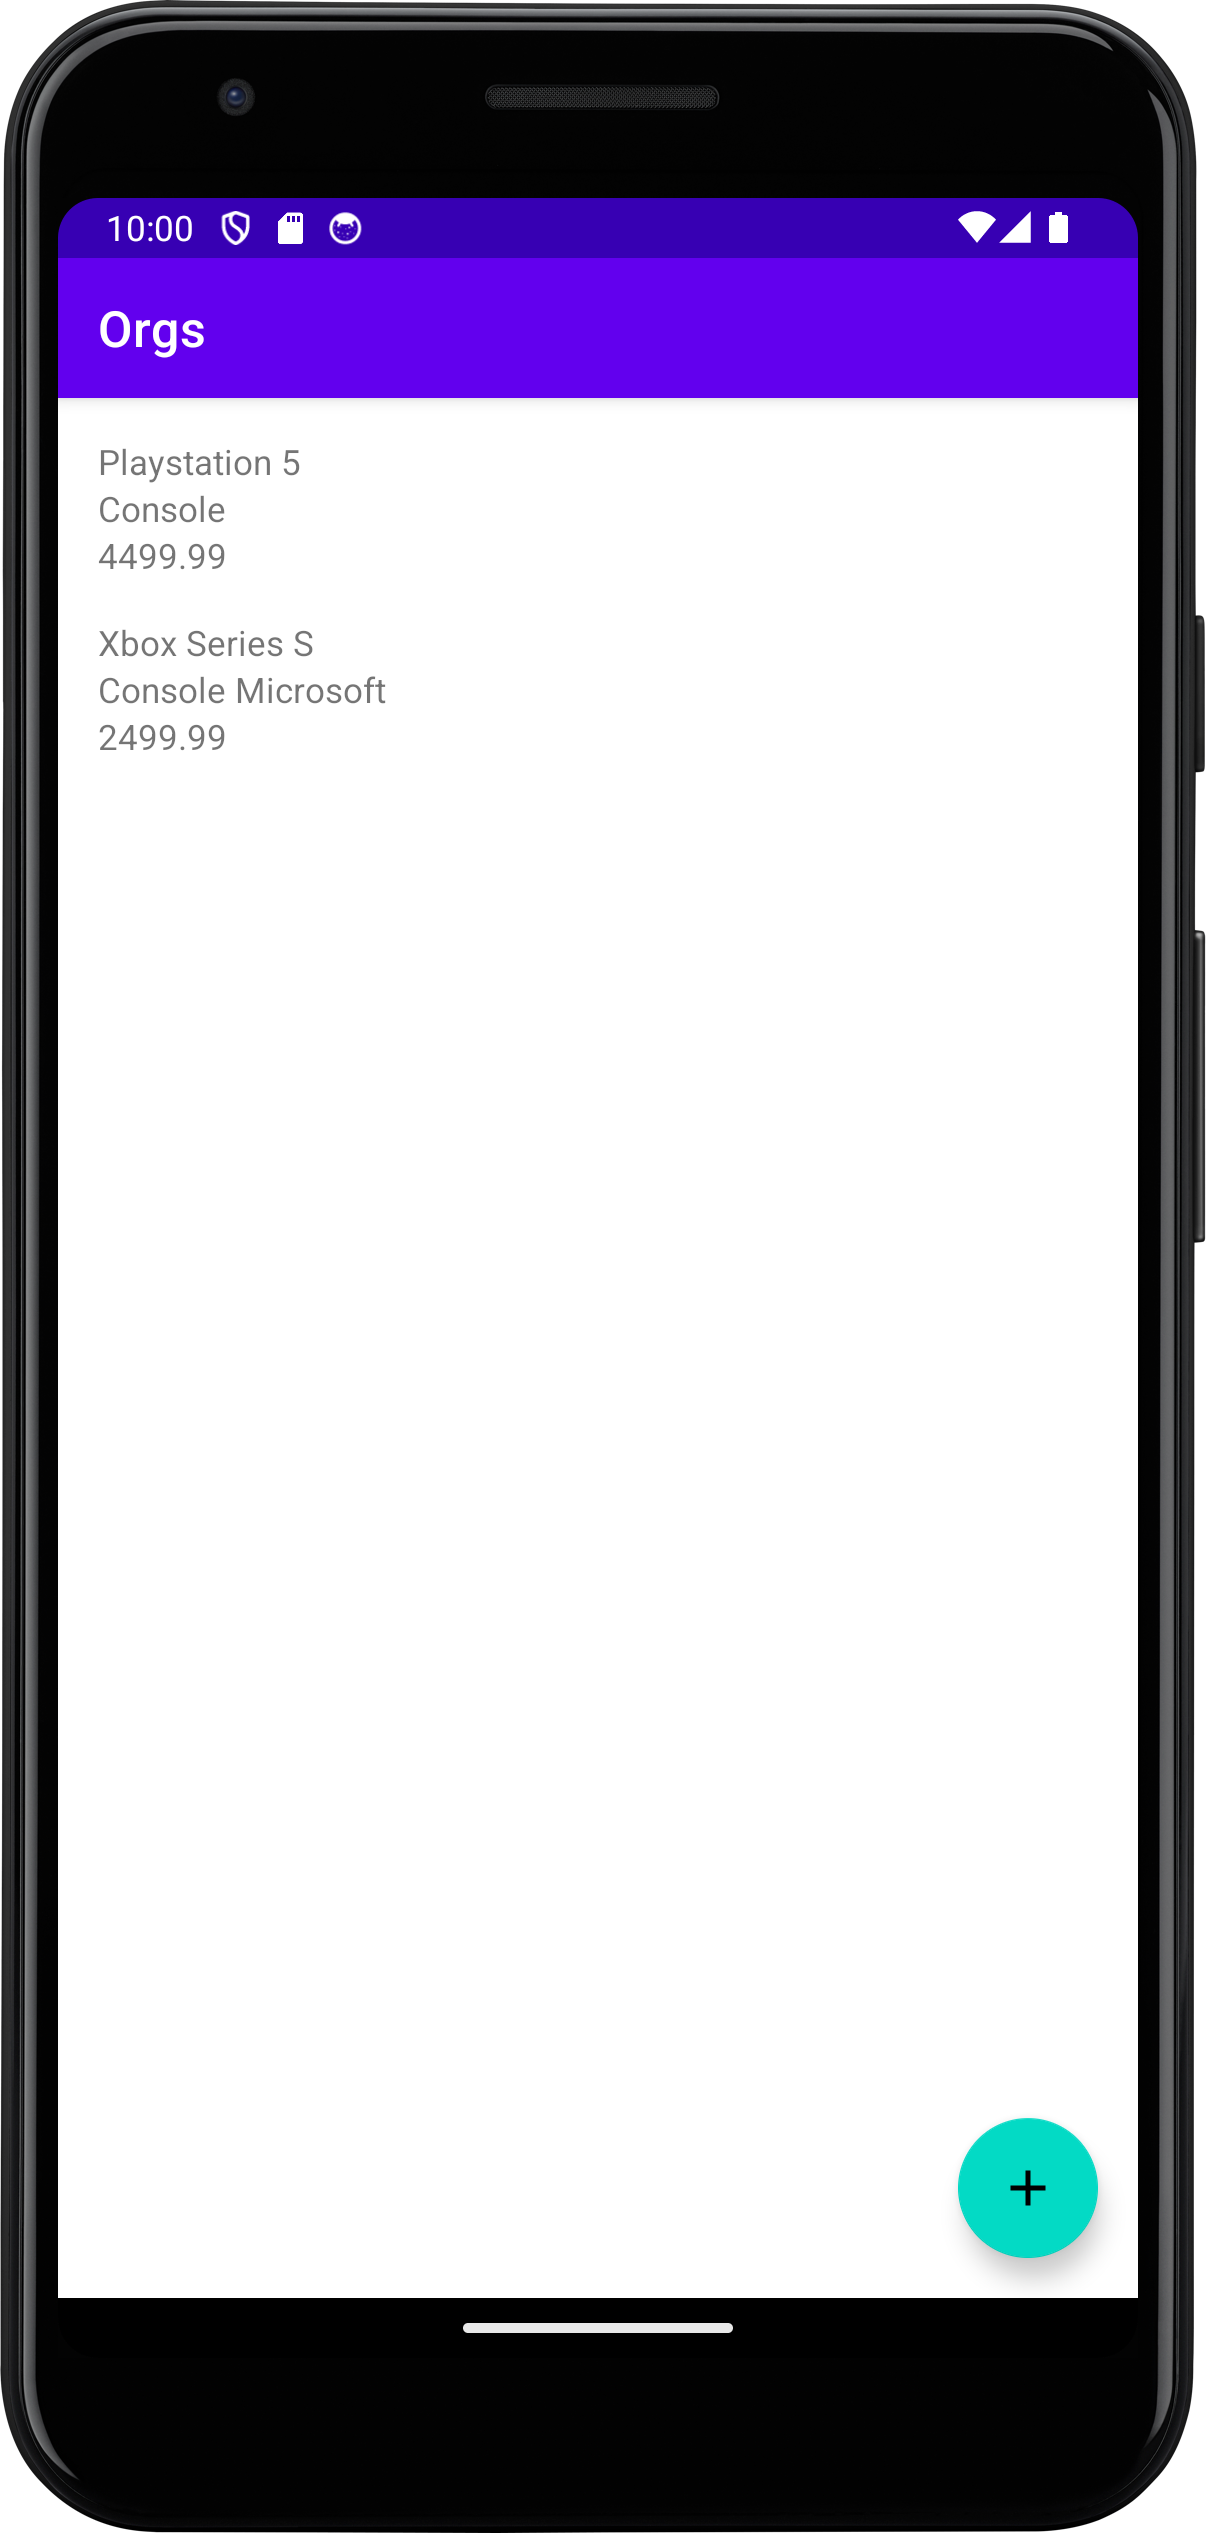
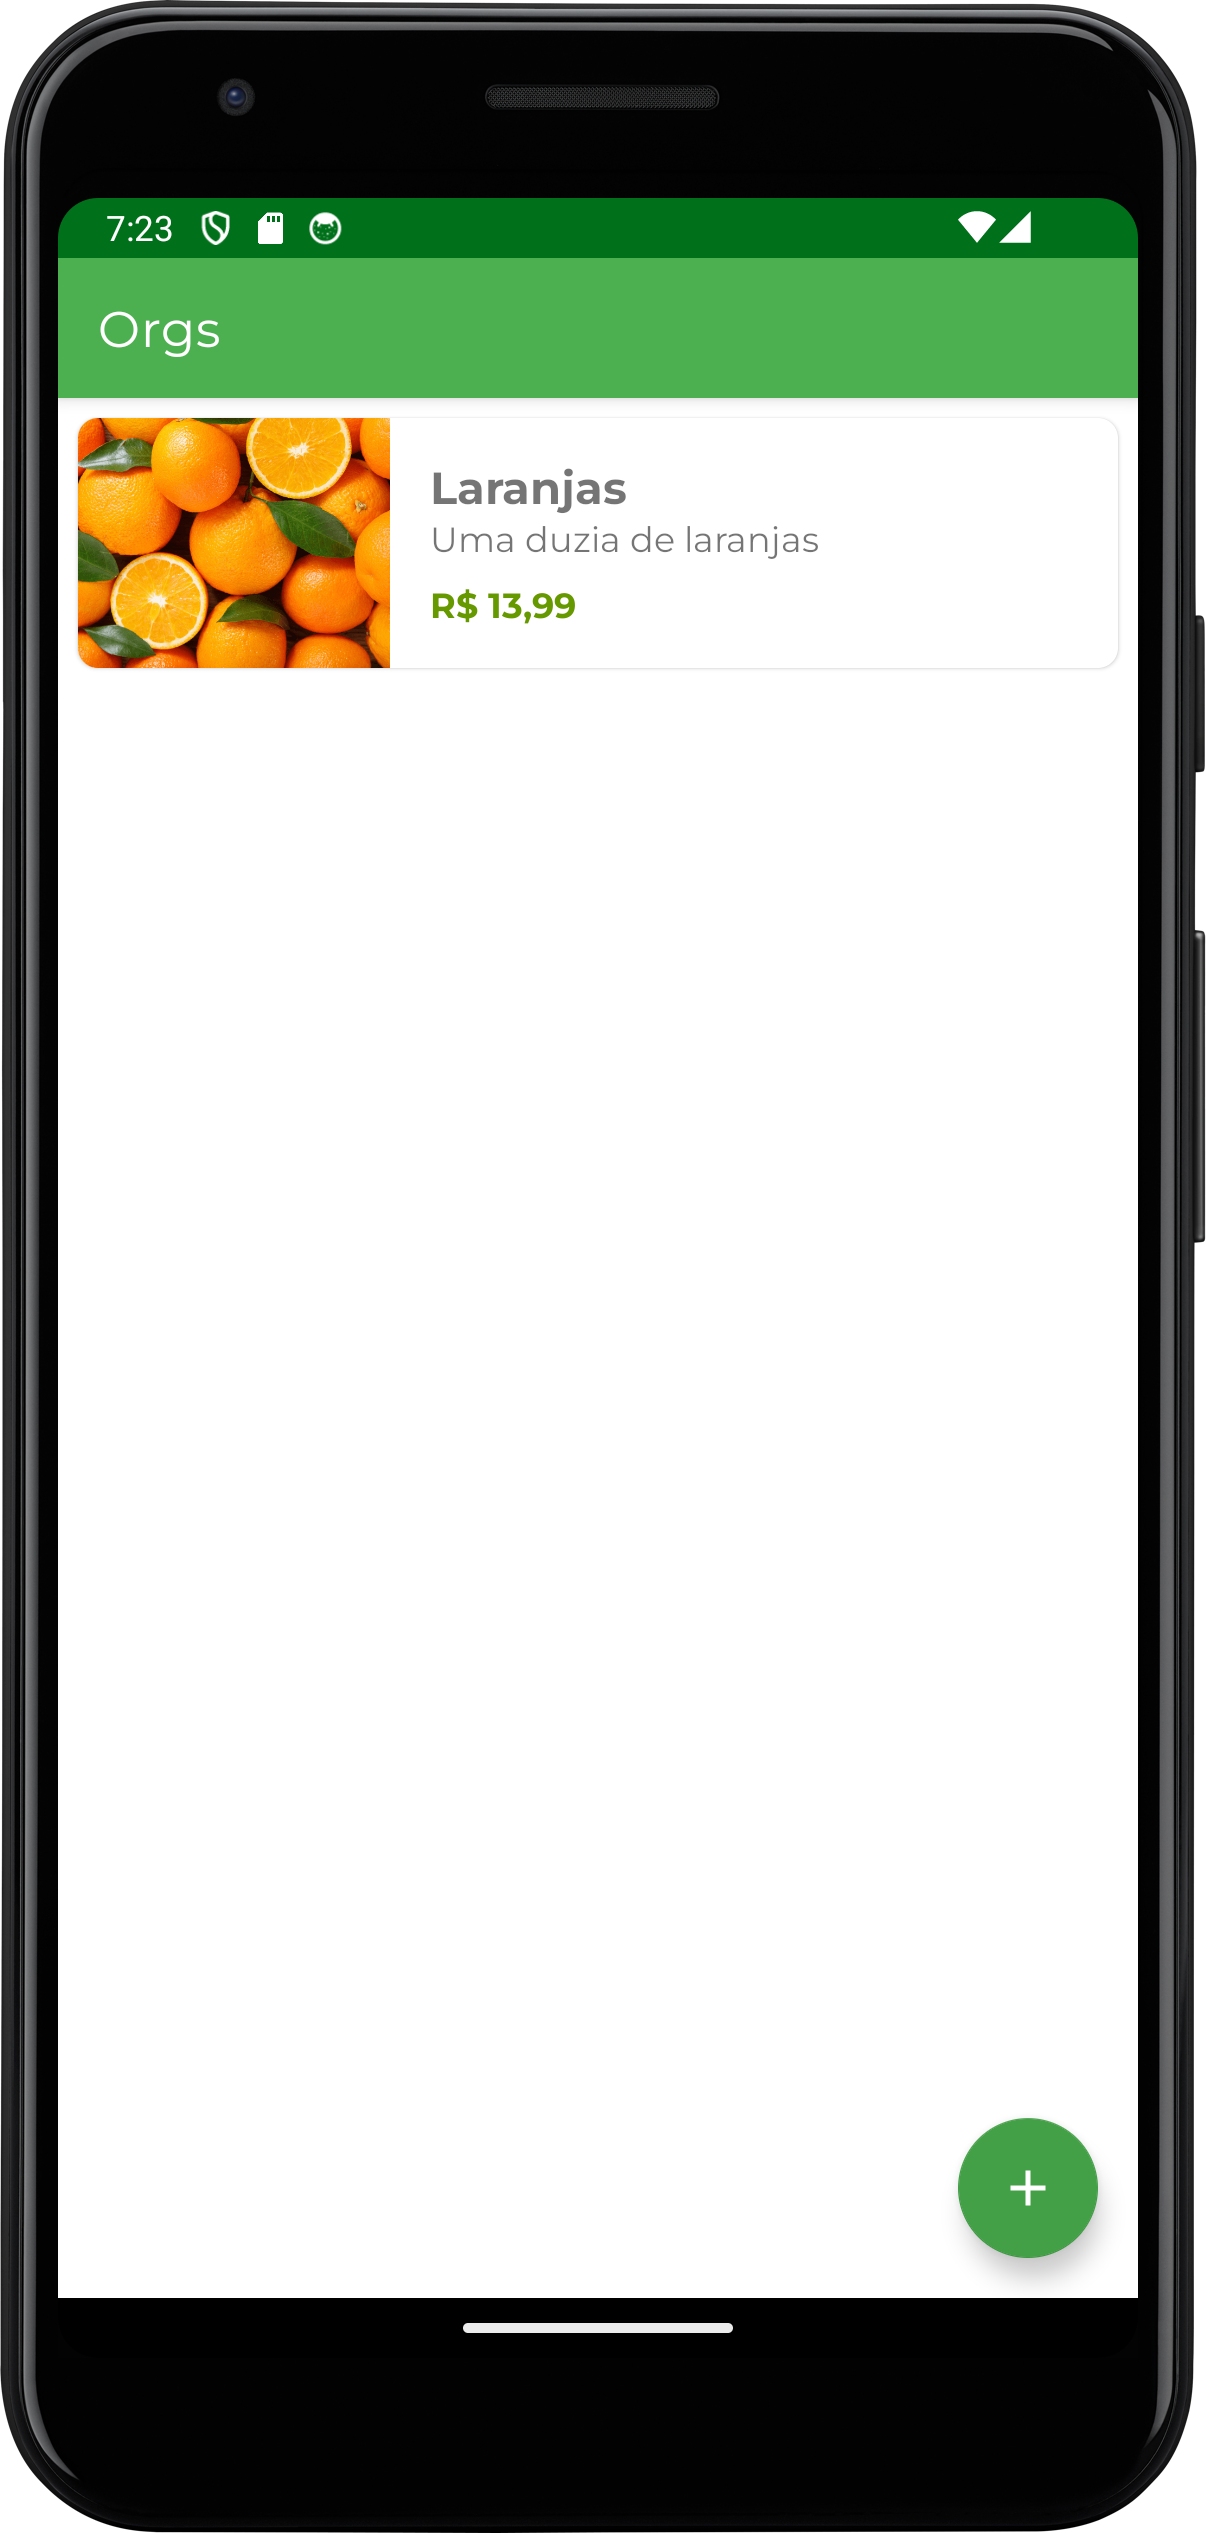
Adicionado assets finais e modificações no README.md

Changed region(s): [[0.0307, 0.0624, 0.9511, 0.3119], [0.7977, 0.8109, 0.9204, 0.9045]]

diff --git a/README.md b/README.md
@@ -12,7 +12,7 @@
 
 <h1>Objetivo</h1>
 
-<p>O objetivo deste repositório é armazenar os códigos desenvolvidos durante o curso "Android com Kotlin: criando o primeiro aplicativo" da plataforma Alura Cursos Online.</p>
+<p>O objetivo deste repositório é armazenar os códigos desenvolvidos durante o curso "Android com Kotlin: persistência de dados com Room" da plataforma Alura Cursos Online.</p>
 
 <br>
 
@@ -20,31 +20,26 @@
 <p>Os conceitos abordados durante o curso foram:</p>
 
 <ul>
-  <li>Android Manifest: para que serve, utilização;
-  <li>Activities: criação, navegação e ciclo de vida;</li>
-  <li>Constraint Layouts: utilidade, boas práticas;</li>
-  <li>Gradle: utilidade, gestão de dependências;</li>
-  <li>RecyclerView: criação, utilidade, configuração;</li>
-  <li>Data Access Object: utilidade e caso de utilização;</li>
-  <li>View Binding: utilização e diferenças em relação a findViewById();</li>
-  <li>Boas práticas para criação de formulários em aplicativos.</li>
+  <li>Banco de dados SQLite;</li>
+  <li>Biblioteca de persistência de dados Room;
+  <li>Introdução às corrotinas do Kotlin (Coroutines);</li>
+  <li>Escopos de ciclo de vida (Lifecycle Scopes);</li>
+  <li>Criação de Menu (Options Menu e Popup Menu).</li>
 </ul>
 
 <br>
 
 <h1>Descrição</h1>
 
-<p>Durante o curso, foi desenvolvido um aplicativo que tem o objetivo de armazenar e gerenciar uma lista de produtos. Para atingir esse objetivo, foram criados duas Activities, para a página de listagem de produtos e página de formulário de cadastro, respectivamente.</p>
+<p>Durante o curso, o aplicativo desenvolvido anteriormente para armazenar e gerenciar lista de produtos foi aprimorado para persistir os dados cadastrados após o aplicativo ser fechado. Além disso, foi aplicado técnicas de criação de menus, em específico, menus Option que são posicionados na Action Bar e Popup Menus que funcionam de maneira semelhante a Dialogs, porém, são ancorados em um elemento e executados de acordo com um listener.</p>
 
-<br>
-
-<p>Ao fim do curso, é informado sobre a existência do recurso de viewBinding, disponível em versões mais recentes do Android, que consiste em disponibilizar as Views criadas em arquivos .xml em forma de classes Kotlin. Entretanto, o curso não aborda o tema com profundidade e deixa a adaptação do aplicativo como um desafio final, que foi resolvido com consulta à documentação <a href="https://developer.android.com/topic/libraries/view-binding?hl=pt-br#data-binding">Vinculação de visualizações</a>, disponível no Android Developers.</p>
+<p>Tais técnicas foram utilizadas para adicionar opções de Atualização e Remoção de Produtos.</p>
 
 <br>
 
 <h1>Screenshots</h1>
 <p align="center">
-  <img src="./assets/tela_inicial.png" width="30%" alt="Tela Inicial">
-  <img src="./assets/tela_cadastro.png" width="30%" alt="Tela de Cadastro de Produtos">
   <img src="./assets/tela_inicial_com_produtos.png" width="30%" alt="Tela Inicial com Produtos Cadastrados">
+  <img src="./assets/popupmenu.png" width="30%" alt="Popup Menu">
+  <img src="./assets/tela_produto.png" width="30%" alt="Tela de Detalhes de Produto">
 </p>
